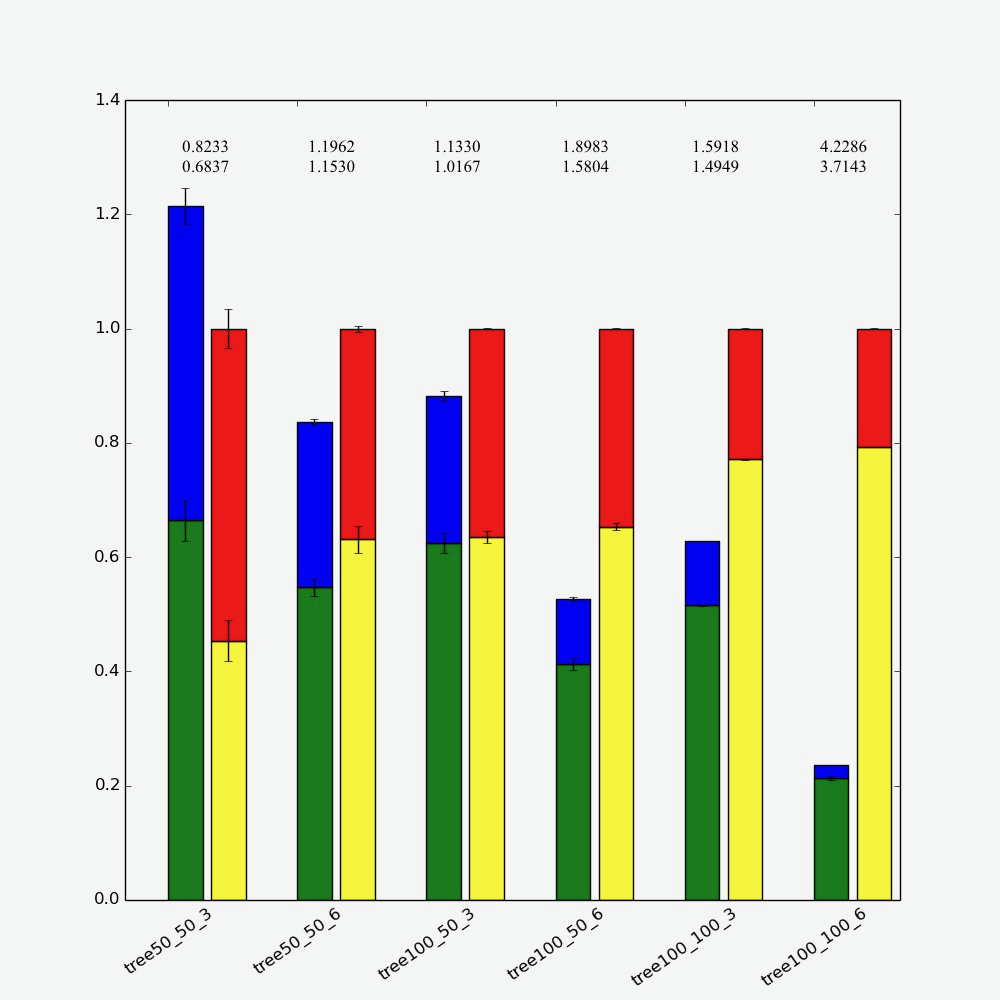
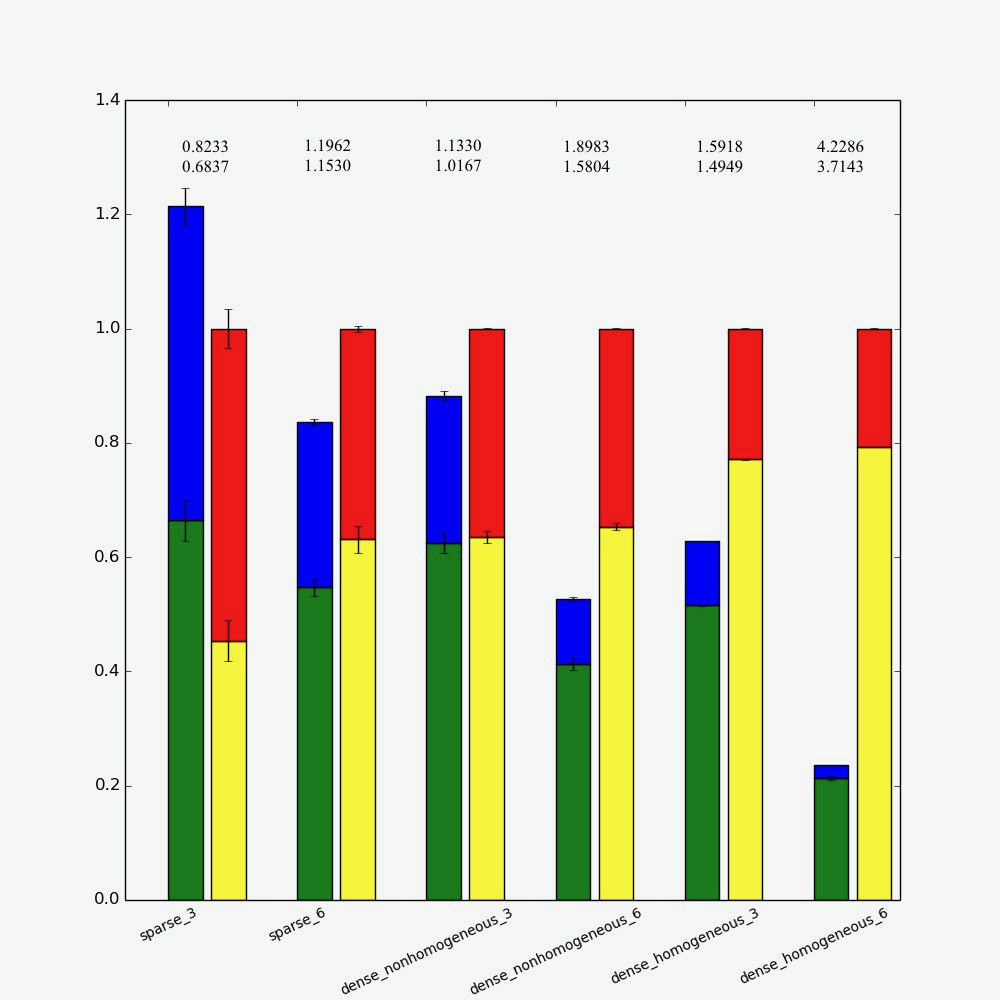
fixed x-axis tick labels

diff --git a/vector_synth/bfv_backend/generateTreeGraphs.py b/vector_synth/bfv_backend/generateTreeGraphs.py
@@ -165,8 +165,6 @@ tree100_100_6_vec_run_avg = average(vec_run6)
 int23 = st.t.interval(alpha=0.95, df=len(vec_run6)-1, loc=np.mean(vec_run6), scale=st.sem(vec_run6))
 tree100_100_6_scal_run_avg = average(scal_run6)
 int24 = st.t.interval(alpha=0.95, df=len(scal_run6)-1, loc=np.mean(scal_run6), scale=st.sem(scal_run6))
-print((tree100_100_6_scal_enc_avg + tree100_100_6_scal_run_avg)/float((tree100_100_6_vec_enc_avg + tree100_100_6_vec_run_avg)))
-print(tree100_100_6_scal_run_avg/float(tree100_100_6_vec_run_avg))
 
 figure(figsize=(10, 10), dpi=80)
 norm_tree50_50_3_vec_enc = float(tree50_50_3_vec_enc_avg)/(tree50_50_3_scal_enc_avg + tree50_50_3_scal_run_avg)
@@ -229,5 +227,5 @@ norm_tree100_100_6_scal_run = float(tree100_100_6_scal_run_avg)/(tree100_100_6_s
 plt.bar(17, norm_tree100_100_6_scal_run, color = 'yellow', yerr = (int24[1] - int24[0]) / (2 * (tree100_100_6_scal_enc_avg + tree100_100_6_scal_run_avg)), ecolor = 'black', label = 'scalar')
 plt.bar(17, norm_tree100_100_6_scal_enc, color = 'red', yerr = (int22[1] - int22[0]) / (2 * (tree100_100_6_scal_enc_avg + tree100_100_6_scal_run_avg)), ecolor = 'black', bottom = norm_tree100_100_6_scal_run)
 
-plt.xticks([1,4,7,10,13,16],["tree50_50_3", "tree50_50_6", "tree100_50_3", "tree100_50_6", "tree100_100_3", "tree100_100_6"], rotation = 35, fontsize = 12)
-#plt.show()
+plt.xticks([1,4,7,10,13,16],["sparse_3", "sparse_6", "dense_nonhomogeneous_3", "dense_nonhomogeneous_6", "dense_homogeneous_3", "dense_homogeneous_6"], rotation = 25, fontsize = 10)
+plt.show()
